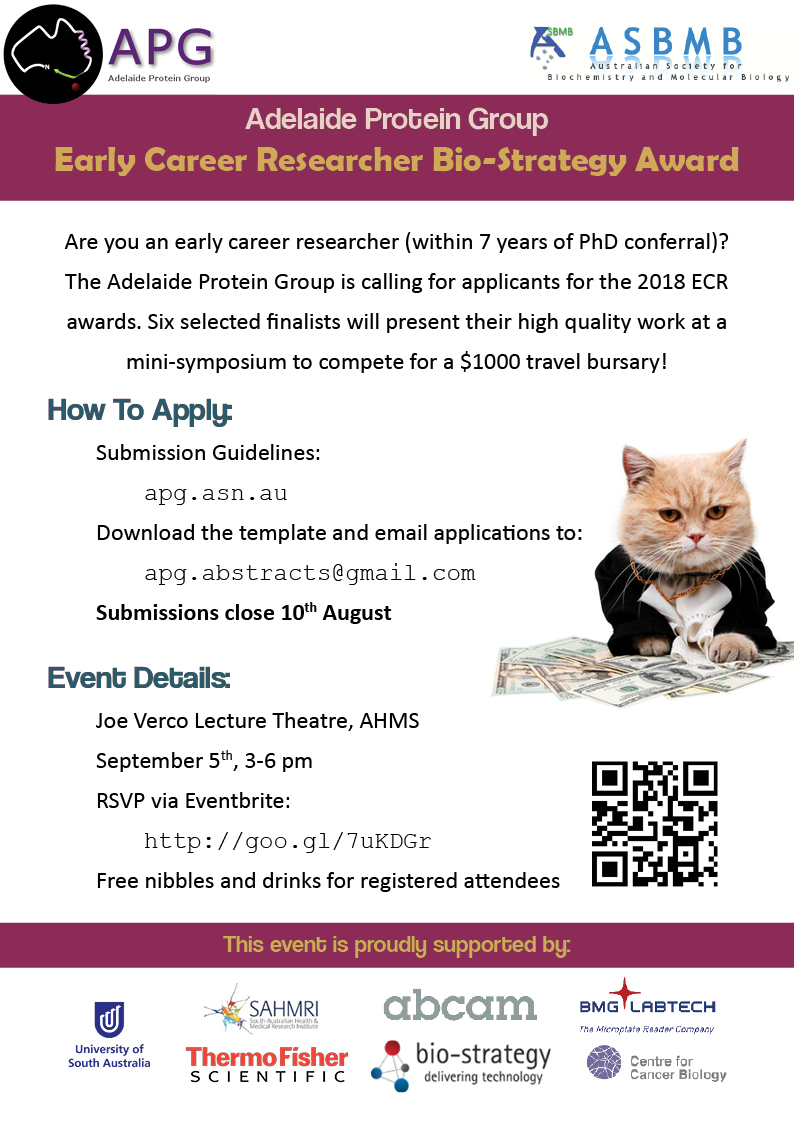
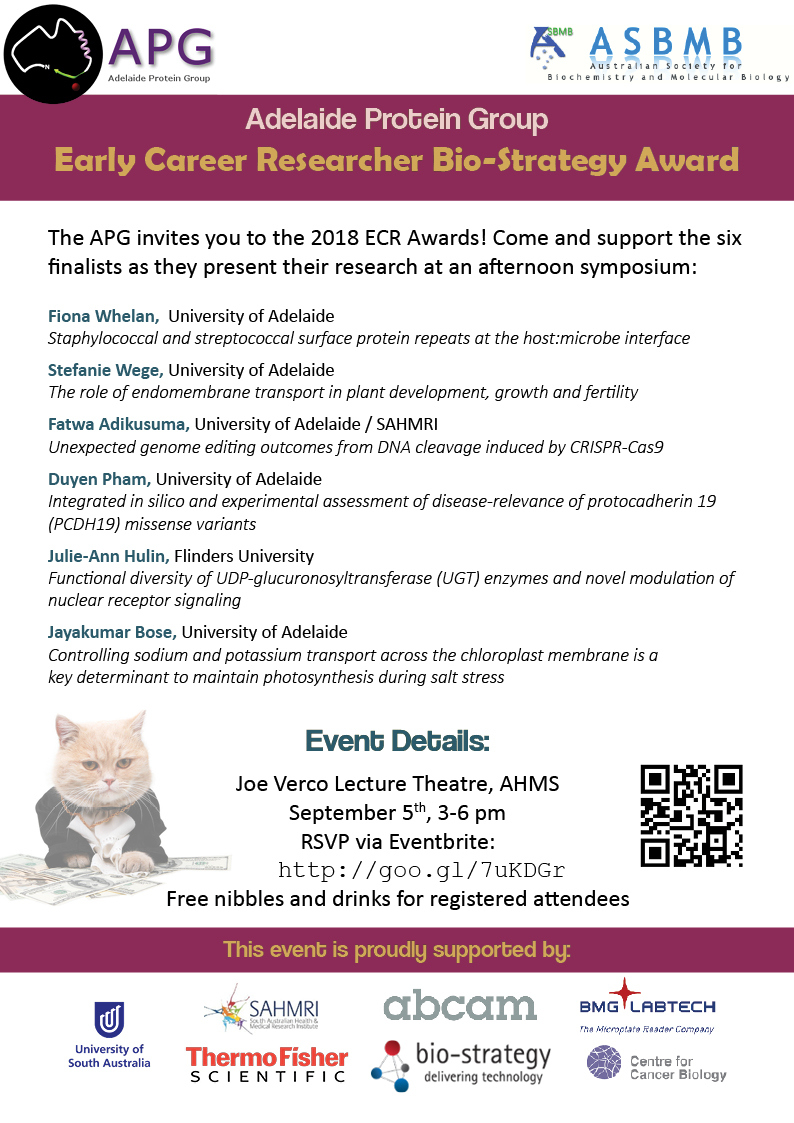
ecr 2018 update

Changed region(s): [[0.0, 0.187, 1.0, 0.8727]]

diff --git a/_posts/2018-07-23-ecr-cfa.md b/_posts/2018-07-23-ecr-cfa.md
@@ -9,7 +9,7 @@ and email your submission to [apg.abstracts@gmail.com](mailto:apg.abstracts@gmai
 
 Just attending? [RSVP via Eventbrite](https://www.eventbrite.com.au/e/apg-early-career-researcher-awards-2018-registration-47605588597)
 
-![](/assets/images/2018_ecr.jpg)
+![](/assets/images/2018_ecr_cfa.jpg)
 
 
 

diff --git a/_posts/2018-08-27-ecr.md b/_posts/2018-08-27-ecr.md
@@ -1,0 +1,10 @@
+---
+layout: post
+title: "Early Career Researcher Awards 2018"
+categories: events
+---
+
+[RSVP via Eventbrite](https://www.eventbrite.com.au/e/apg-early-career-researcher-awards-2018-registration-47605588597) 
+for your change to win the DOOR PRIZE!
+
+![](/assets/images/2018_ecr.jpg)
